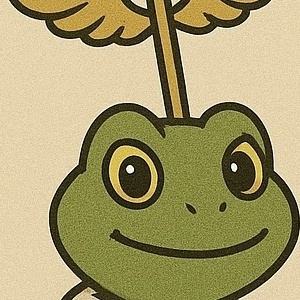
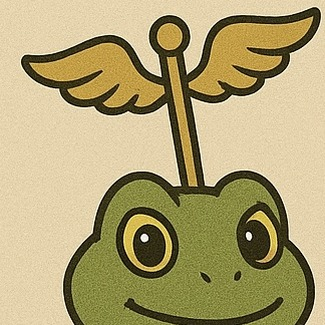
Fix healer reaction image cropping
- Recrop healer-happy.jpeg and healer-pained.jpeg from original source images
- Fix cutoff issue where character's face/mouth was being cropped out
- Ensure consistent framing between happy and pained expressions
- Maintain left-facing direction to match neutral healerfull.png

diff --git a/index.html b/index.html
@@ -1886,7 +1886,7 @@ body.controller-active .controller-prompts {
 
 <script>
 // ===== VERSION CHECK =====
-const GAME_VERSION = '11.27';
+const GAME_VERSION = '11.28';
 console.log(`%c🐸 FROGGLE v${GAME_VERSION} LOADED`, 'color: #22c55e; font-size: 20px; font-weight: bold;');
 
 // Debug logging - only outputs when S.debugMode is true

diff --git a/src/constants.js b/src/constants.js
@@ -1,5 +1,5 @@
 // ===== VERSION CHECK =====
-const GAME_VERSION = '11.27';
+const GAME_VERSION = '11.28';
 console.log(`%c🐸 FROGGLE v${GAME_VERSION} LOADED`, 'color: #22c55e; font-size: 20px; font-weight: bold;');
 
 // Debug logging - only outputs when S.debugMode is true
